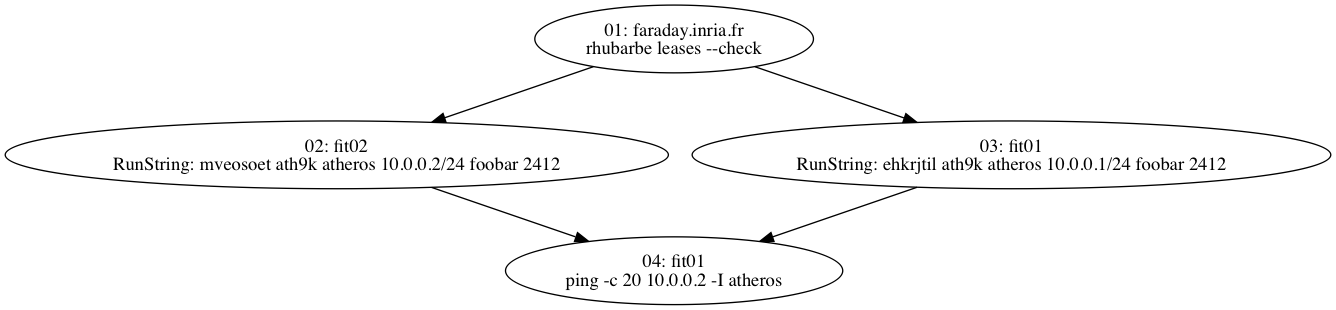
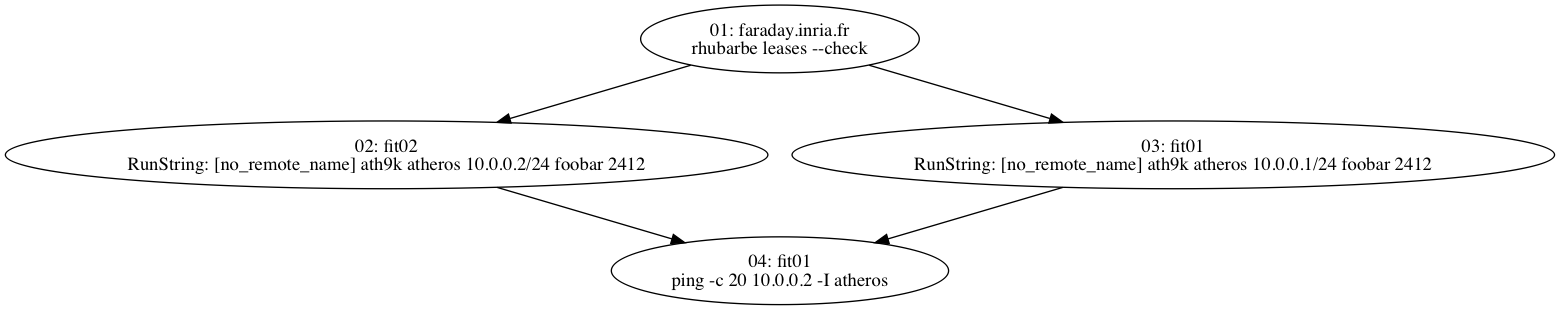
improve graph rendering of B1 and B2 - requires apssh 0.9.4

diff --git a/code/B2-wireless.py b/code/B2-wireless.py
@@ -116,6 +116,9 @@ init_node_01 = SshJob(
     command = RunString(
         turn_on_wireless_script,
         wireless_driver, "foobar", 2412,
+        # setting a remote_name allows to
+        # improve the graphical rendering
+        remote_name = 'turn-on-wireless'
 #        verbose=True,
     ),
     required = check_lease,
@@ -125,7 +128,9 @@ init_node_02 = SshJob(
     node = node2,
     command = RunString(
         turn_on_wireless_script,
-        wireless_driver, "foobar", 2412),
+        wireless_driver, "foobar", 2412,
+        remote_name = 'turn-on-wireless'
+    ),
     required = check_lease,
     scheduler = scheduler,
 )
